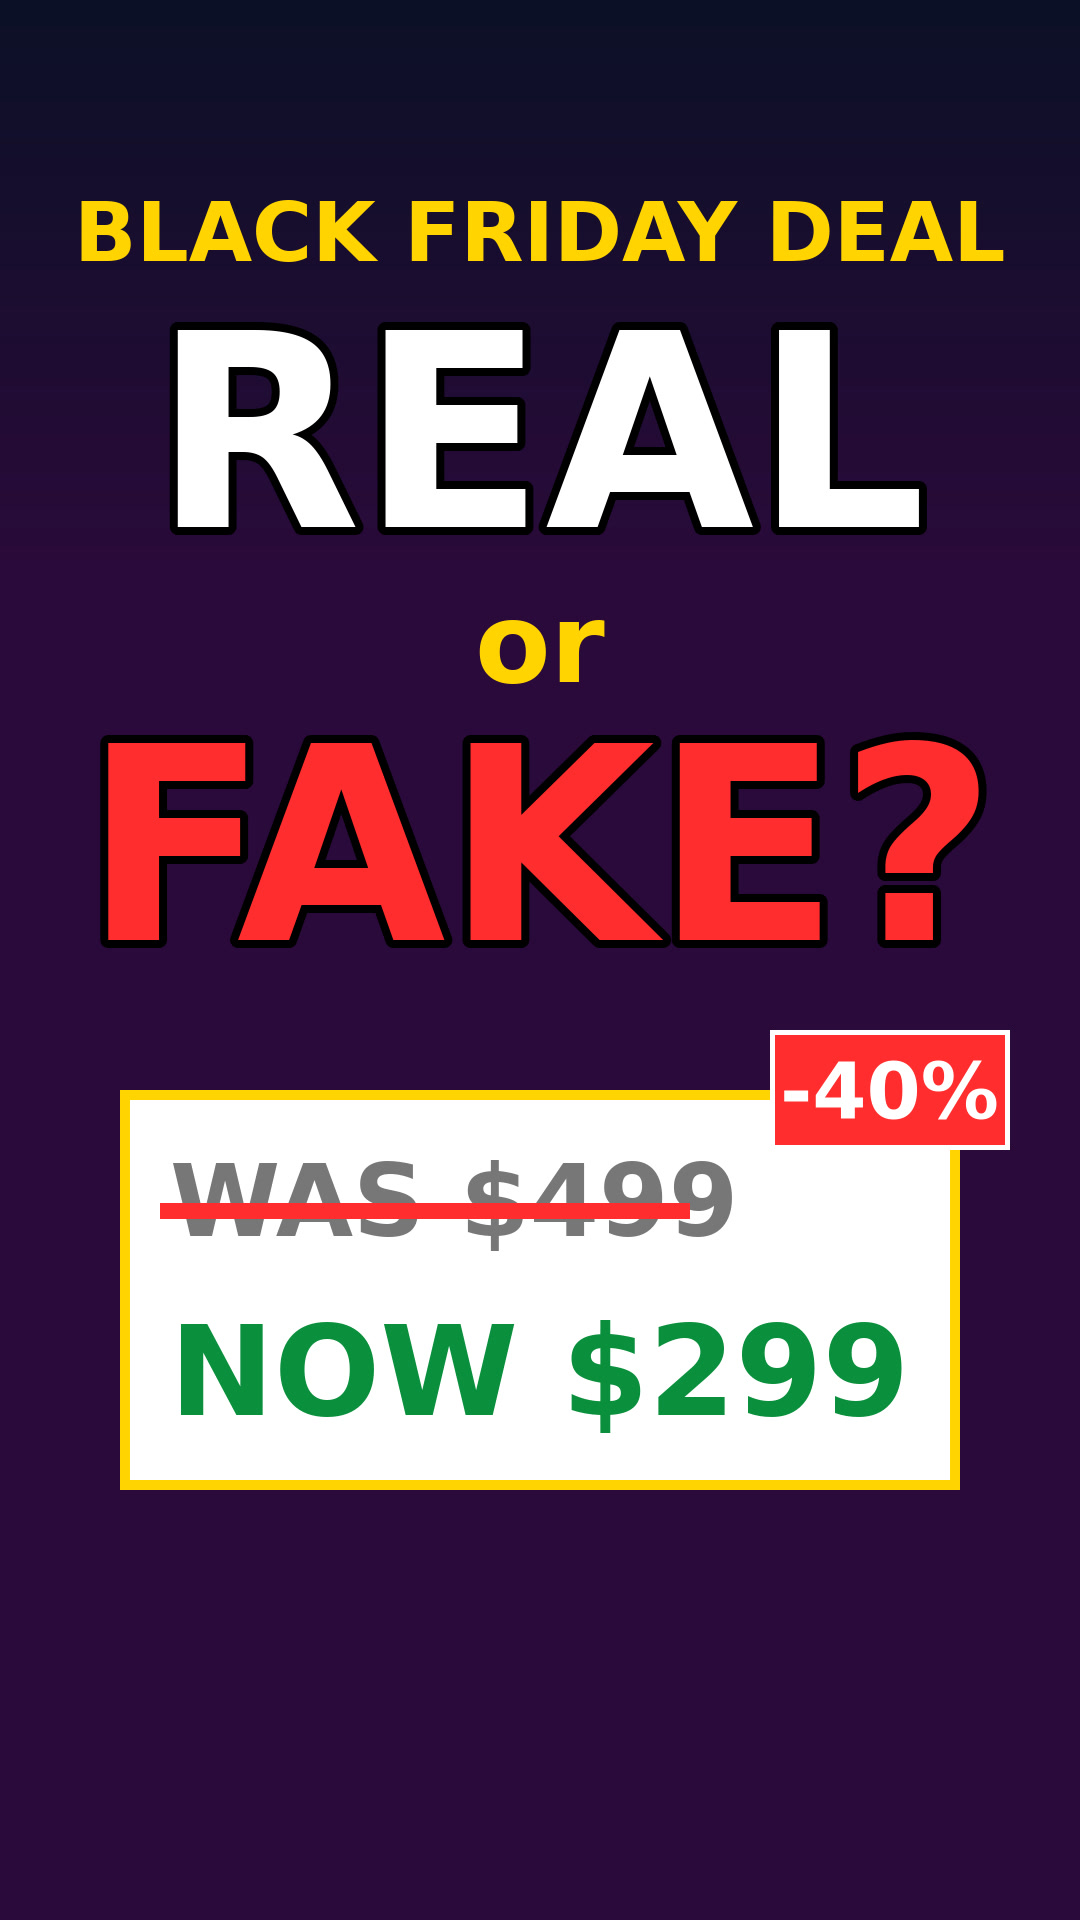
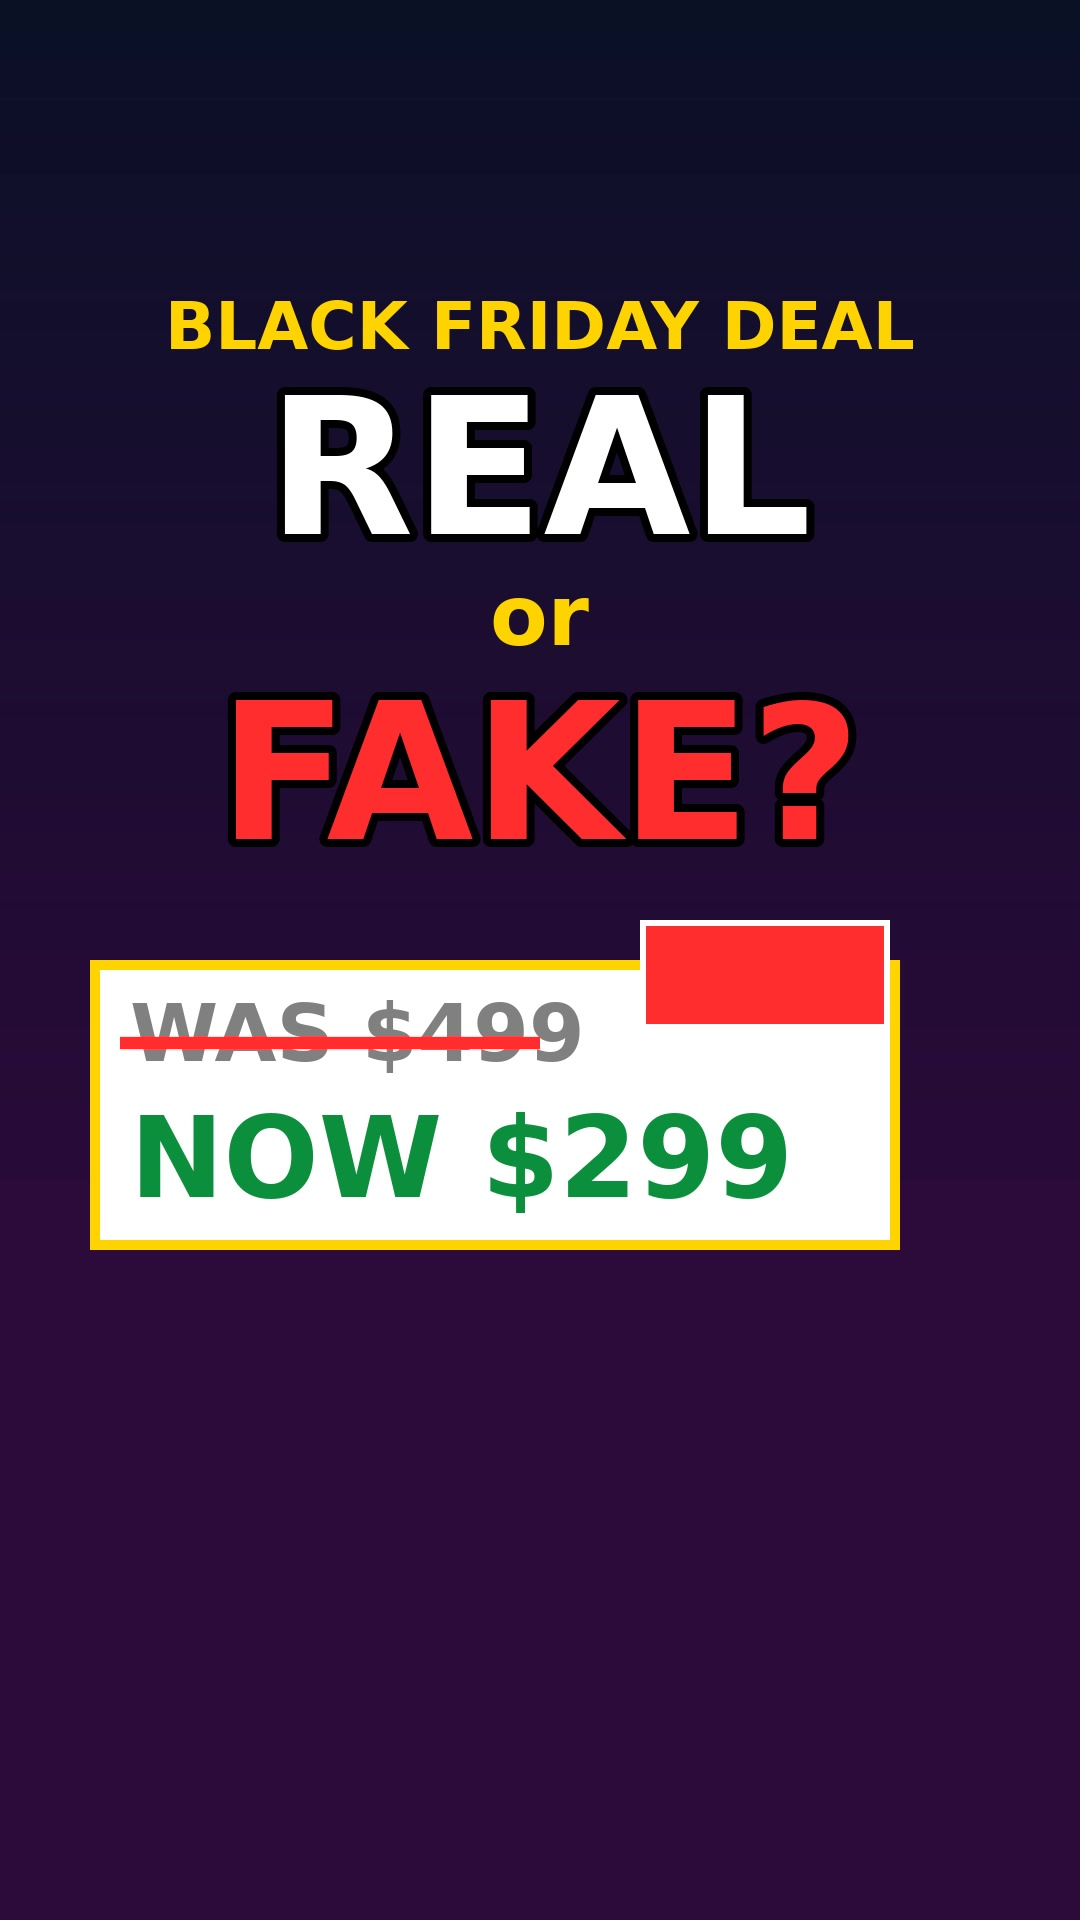
First short: QA round 1 fixes in progress
Claude-Session: https://claude.ai/code/session_01HQUcwpnvkJcwzym2w1ier7

diff --git a/company/projects/2026-11-17-first-short/04-edit-plan.md b/company/projects/2026-11-17-first-short/04-edit-plan.md
@@ -1,5 +1,12 @@
 # 04 - Edit plan - T-001 "Is this Black Friday deal fake?"
 
+> **QA round 1 fixes (2026-11-17, Khaled, from Badr's `10-qa.md`, verdict FIX)**
+> - **Fix 2:** cover frames at the start carry **no burned-in captions**; cut 1 (hook) captions start after them and must not cover the A1 price block (price block held inside y 300-1250). Preview **not re-rendered yet**: captions are being re-timed first, and the preview waits for Tariq's moved price card (fix 1). Re-render + frame check after both land.
+> - **Fix 3 + 4:** REAL row in the verdict swap table now uses the VO wording ("This is the lowest price in [X] days") and replaces "Buy it." with "Good deal, if the sources check out." (pending Youssef's final wording in 02; captions must match the VO word for word).
+> - **Fix 5:** cut 3 source line corrected to **"EU Directive 98/6/EC, Art. 6a"**.
+> - **Fix 10 / process 2:** one shared safe-zone spec below (top 290, pop-ups 290-1250, caption band 1290-1460, platform UI > 1536, right rail x > 900). This is the reference for the shot list and the cover.
+> - **Line length:** EN caption lines ≤ 26 characters (QA measured ≤ 32; the 32-char lines run under the right-side buttons).
+
 - Editor: Khaled (video-editor), 2026-11-17
 - Input: `brief.md`, `02-script-short.md`, `03-hooks.md`, `shot-list.md` (Mariam), `captions/captions_en.srt` (Reem), `cover_vertical.jpg` (Tariq)
 - Status: **no footage yet** (`company/inbox/footage/` and `raw/` are empty). This plan is ready to cut as soon as A1-A6 + VO land in `raw/`.
@@ -7,7 +14,16 @@
 
 ## Global rules for the cut
 
-- Safe zone: keep prices, verdicts and pop-up text inside **y 290-1250 px**. The caption band sits at about **y 1290-1460** (render_short.py, MarginV 70) and the bottom 20% (y > 1536) is platform UI.
+- **Safe-zone spec (shared with shot list and cover, 1080x1920):**
+  | Zone | Area | Rule |
+  |---|---|---|
+  | Top UI | y 0-290 | No text, prices or verdicts (platform top bar). Corner timer sits just below, y ~300. |
+  | Pop-ups / prices / zooms | **y 290-1250**, **x 60-900** | All pop-ups, price blocks, verdict cards, source lines and zoom targets. |
+  | Caption band | y 1290-1460 | Burned captions only (render_short.py, MarginV 70). Nothing important under it. |
+  | Platform UI | y > 1536 | Caption/username/music line. Nothing. |
+  | Right rail | **x > 900** (y ~900-1700) | TikTok/Reels/Shorts like, comment, share buttons. No pop-up text, badges or key numbers here; centre pop-ups so they end at x ≤ 900. |
+- Zoom framing: when punching in (1.4-1.6x), frame the value so it lands inside x 60-900, y 290-1250 after the zoom, not just at the centre of the frame.
+- Captions: EN lines **≤ 26 characters** (2 lines max). Longer lines reach x ~1005 and run under the right rail. If a cue cannot be shortened, split it or drop FontSize 13 -> 12 for that cue only.
 - Blur on every A-shot: store logo, product brand, chatbot logo, account name/avatar, cookie text (box blur, tracked by hand if the page scrolls).
 - No speed-up in A4 unless labelled **"sped up"**; the corner timer always shows real seconds.
 - Zooms: smooth 0.4 s ease-in, hold, 0.3 s ease-out. Max 1.6x on screen recordings (text stays sharp at 1080 wide from a 608-720 px window).
@@ -18,9 +34,9 @@
 
 | # | Script time | Draft SRT cues (time) | Source | Edit / zoom | On-screen pop-up | Notes |
 |---|---|---|---|---|---|---|
-| 1 | 0:00-0:03 | 1-3 (0:00.0-0:04.6) | **A1** (EU or US, whichever A8 picks), hold on price block | Start already zoomed 1.4x on "was" price + % badge; slow push to 1.5x | **-[real %]: REAL or FAKE?** top third (y 300-520). REAL / FAKE stamps flicker 2-3x over the price (B-graphic), **no stamp lands** | Frame 1 must already have text + price. Optional: first 2 frames = cover card for YouTube frame pick (no captions on those 2 frames). |
+| 1 | 0:00-0:03 | 1-3 (0:00.0-0:04.6) | **A1** (EU or US, whichever A8 picks), hold on price block | Start already zoomed 1.4x on "was" price + % badge; slow push to 1.5x | **-[real %]: REAL or FAKE?** top third (y 300-520). REAL / FAKE stamps flicker 2-3x over the price (B-graphic), **no stamp lands** | Frame 1 must already have text + price. Optional: first 1-2 frames = cover card (Tariq's moved version, price card y ~960-1250) for YouTube frame pick. **No burned-in captions on the cover frames**: cue 1 starts on the first A1 frame after them (shift SRT cue 1 start, or blank the cover frames). Hook captions sit in the band (y 1290-1460) and the A1 price block + % badge must stay above y 1250 and at x ≤ 900 so the captions never cover them. |
 | 2 | 0:03-0:09 | 4-7 (0:04.9-0:12.6) | **B** animated price line (our graphic) | Line draws left to right: normal price, jump up, short plateau, "sale" drops back to normal | "Was" price goes up -> then **-[real %]** | Built in ffmpeg/drawbox or simple SVG->PNG sequence. No store names. |
-| 3 | 0:09-0:15 | 8-11 (0:12.9-0:21.0) | **B** EU rule text card | Static card, slow 1.0 -> 1.05x push | **EU rule: "was" price = lowest price in the last 30 days** + small source line "EU Directive 2019/2161, Art. 6a" | Keep source line above y 1250 so the caption band does not hide it. |
+| 3 | 0:09-0:15 | 8-11 (0:12.9-0:21.0) | **B** EU rule text card | Static card, slow 1.0 -> 1.05x push | **EU rule: "was" price = lowest price in the last 30 days** + small source line "EU Directive 98/6/EC, Art. 6a" | Keep source line above y 1250 so the caption band does not hide it. |
 | 4 | 0:15-0:19 | 12-14 (0:21.3-0:26.3) | **B** prompt full-screen (from text in `02-script-short.md`) + 0.5 s flash of **A2** (empty chat, search on) | None on the prompt (must be readable). A2 cut-in at "any free chatbot" | **SCREENSHOT THIS** (yellow, top) | Prompt hold counts toward the 3 s minimum. Large monospace, max 12 lines, inside y 290-1250. |
 | 5 | 0:19-0:23 | 15-17 (0:26.6-0:30.8) | **A3** paste + click on each filled value | Punch-in 1.4x on each value as Mariam clicks it (link, sale price, was price), ~1 s each | Yellow highlight boxes: **[link] [sale price] [was price]** | Do not show Enter yet. |
 | 6 | 0:23-0:31 | 18-22 (0:31.1-0:38.8) | **A4** answer streaming, real time | Wide (1.0x) so the stream is visible; trim only the dead start before Enter | Corner timer 0 -> real seconds (top-right, y ~300). **REAL DEAL / FAKE DISCOUNT / NOT SURE** pop in one by one as the VO lists them | If A4 > 8 s on screen: jump-cut the middle and add **"sped up"** label, timer keeps real time. The real seconds decide the "20 sec" title (Hala). |
@@ -36,13 +52,14 @@ B-roll list (all our own graphics, Part B of shot list): REAL/FAKE stamps, price
 | Real verdict | VO cues 23-25 | Verdict card (centre, y 600-1000) | Hook / other changes |
 |---|---|---|---|
 | FAKE DISCOUNT | "Here, it's fake. / The "was" price / only lasted [X] days." | Red **FAKE: "was" price lasted [X] days** | Optional 2nd cut with hook #2 for A/B test (Hala). Stamp in shot 1 still must not land. |
-| REAL DEAL | "Here, it's real. / Lowest price in [X] days. / Buy it." | Green **REAL: lowest price in [X] days** | Hook #1 only. |
+| REAL DEAL | "Here, it's real. / This is the lowest price / in [X] days. / Good deal, if the sources check out." (no "Buy it."; final wording = Youssef's 02 line, captions must match the VO word for word) | Green **REAL: lowest price in [X] days** + small line **Check the sources** | Hook #1 only. |
 | NOT SURE (current SRT) | as in `captions_en.srt` | Yellow **NOT SURE = no proof. Wait.** | Hook #1 only. |
 
 [X] = the number in the A5 answer, confirmed by Mariam's A7 source check. Swap the same cues in DE/FR/ES SRTs (Reem's table in `05-captions-notes.md`). Also replace "-40%" in shot 1 and the cover with the real discount (EUR if EU store).
 
 ## Captions timing preview (done)
 
+- **Status after QA round 1: outdated** (still shows the old cover with the collision). Re-render after the SRT re-timing and Tariq's moved card; do not show it to the owner before that.
 - File: `edit/preview_captions_9x16.mp4` - cover as still background + silent track + `captions_en.srt` burned in by `tools/render_short.py`.
 - ffprobe: 1080x1920, h264 30 fps + AAC, 57.8 s (last cue ends 56.777 s + 1 s).
 - Frames checked at 0:07 (2-line cue) and 0:40 (1-line cue): captions are **readable** (white bold, black outline, ~70 px text).
